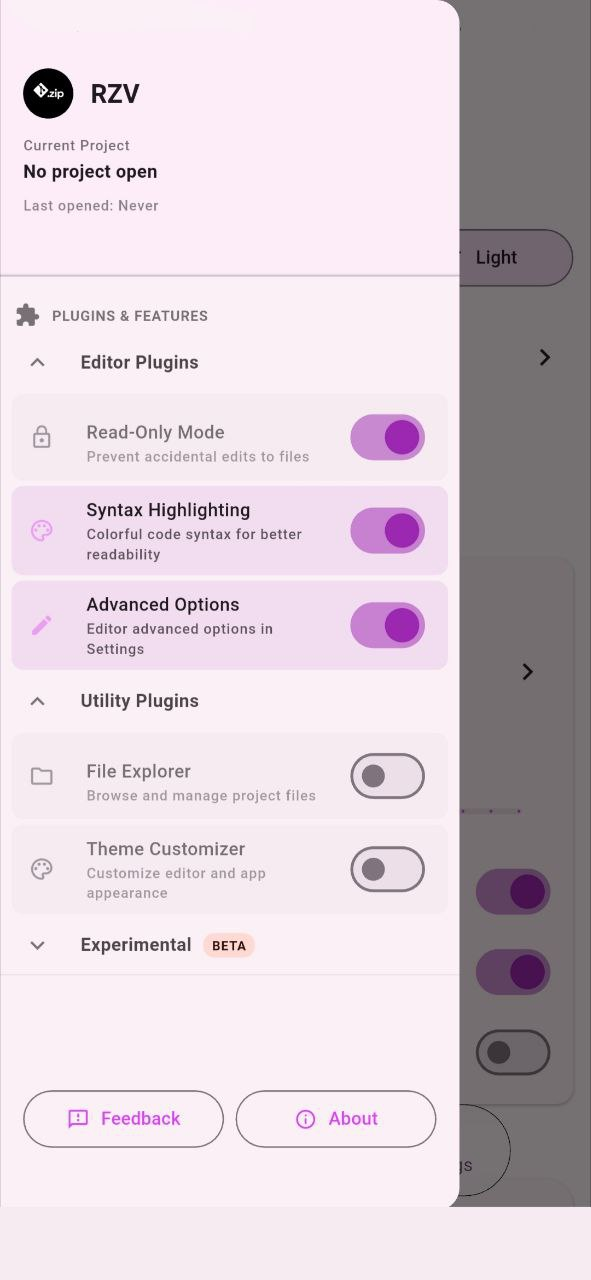
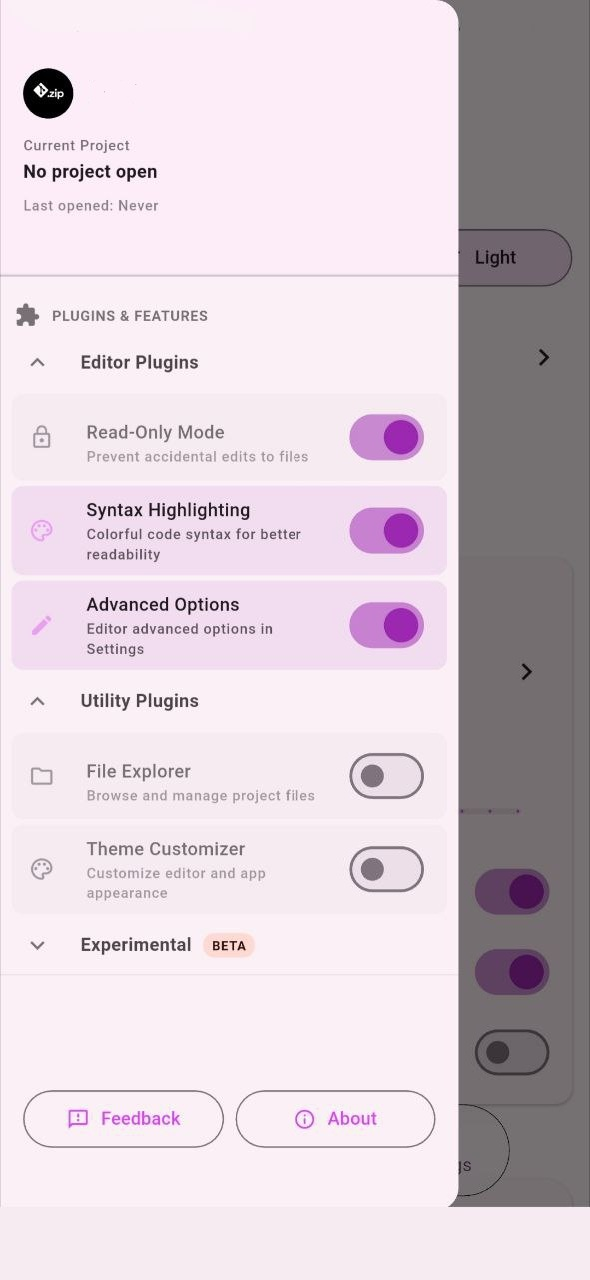
rename to RZR

Changed region(s): [[0.2441, 0.4688, 0.4271, 0.5], [0.2746, 0.375, 0.4271, 0.4062], [0.1525, 0.0625, 0.2441, 0.0938]]

diff --git a/quick_start.md b/quick_start.md
@@ -1,6 +1,6 @@
-## 1.1 What is RZV
+## 1.1 What is RZR
 
-RZV (repo zip viewer) is an open source mobile app to browse and read GitHub, GitLab and Bitbucket repositories. Instead of cloning a repository with Git, you open its `.zip` archive in a read-only code editor and markdown viewer. The common use cases include:
+RZR (repo zip reader) is an open source mobile app to browse and read GitHub, GitLab and Bitbucket repositories. Instead of cloning a repository with Git, you open its `.zip` archive in a read-only code editor and markdown viewer. The common use cases include:
 
 - Studying open-source projects on the go
 - Reviewing code during travel or commutes
@@ -15,7 +15,7 @@ No cloning or Git setup is needed: after a repository is imported, its files can
 <img src="./images/projects_dir.jpg" width="250" />
 </p>
 
-To start using RZV, you just need to import a repository. RZV provides two ways to do this:
+To start using RZR, you just need to import a repository. RZR provides two ways to do this:
 
 - use the built-in **Zip Manager** to download a repository directly from GitHub, GitLab or Bitbucket
 - import a `.zip` archive that you already have on your device (for example a GitHub "Download ZIP" file)
@@ -24,7 +24,7 @@ Imported repositories appear in the home screen, where you can open, rename or d
 
 ## 1.3 Opening a Repository
 
-Tap on an imported project to open it. RZV shows the full folder/file tree of the repository, so you can navigate through directories just like a file explorer.
+Tap on an imported project to open it. RZR shows the full folder/file tree of the repository, so you can navigate through directories just like a file explorer.
 
 <p align="center">
 <!-- <img src="./images/plugin_manager.jpg" width="250" /> -->
@@ -35,6 +35,6 @@ Tap any file to open it in the code editor, or tap a markdown file to preview it
 
 ## 1.4 Browsing Files
 
-RZV reads files directly from the extracted archive. The file tree shows all the directories and files of the repository, and large projects are supported thanks to a progress indicator shown during extraction.
+RZR reads files directly from the extracted archive. The file tree shows all the directories and files of the repository, and large projects are supported thanks to a progress indicator shown during extraction.
 
 Search is available both across file names and inside file contents, so you can quickly find what you are looking for.

diff --git a/donate.md b/donate.md
@@ -1,8 +1,8 @@
-<!-- TODO: replace "RZV" project name in the text below (and the sponsor link) -->
-RZV is a FOSS project brought to you free of charge. You can make a donation to foster future development via one of the methods below.
+<!-- TODO: replace "RZR" project name in the text below (and the sponsor link) -->
+RZR is a FOSS project brought to you free of charge. You can make a donation to foster future development via one of the methods below.
 
-<!-- TODO: replace the sponsor link with RZV's own sponsors section, e.g. https://github.com/bilalsul/rzv#sponsors -->
-If you are a business and find this app useful for your business, please consider becoming [an official sponsor of the project](https://github.com/bilalsul/rzv#sponsors).
+<!-- TODO: replace the sponsor link with RZR's own sponsors section, e.g. https://github.com/bilalsul/rzr#sponsors -->
+If you are a business and find this app useful for your business, please consider becoming [an official sponsor of the project](https://github.com/bilalsul/rzr#sponsors).
 
 ### Liberapay
 
@@ -11,16 +11,16 @@ If you are a business and find this app useful for your business, please conside
 
 <!-- ### Bitcoin -->
 
-<!-- TODO: replace the address and the QR image link with RZV's Bitcoin address / QR -->
-<!-- Address: [1BtxxxxxYourBitcoinAddress](bitcoin:1BtxxxxxYourBitcoinAddress?message=RZV) -->
+<!-- TODO: replace the address and the QR image link with RZR's Bitcoin address / QR -->
+<!-- Address: [1BtxxxxxYourBitcoinAddress](bitcoin:1BtxxxxxYourBitcoinAddress?message=RZR) -->
 
 <!-- ![rzv_bitcoin](https://user-images.githubusercontent.com/5488003/112125885-2f660c80-8bc4-11eb-8c72-7a413e3efabd.png) -->
 
 <!-- ### Monero -->
 
-<!-- TODO: replace the address and the QR image link with RZV's Monero address / QR -->
+<!-- TODO: replace the address and the QR image link with RZR's Monero address / QR -->
 <!-- Address: [48aaPXkYHBPF5fvbCNq3rHX1XGg2uGB6
 s8XYATtoBp1VgRKH3w9a49BasFzQTHEh7m41Lg9xn
-U21oVfnD8GJW82xJrNJY5g](monero:48aaPXkYHBPF5fvbCNq3rHX1XGg2uGB6s8XYATtoBp1VgRKH3w9a49BasFzQTHEh7m41Lg9xnU21oVfnD8GJW82xJrNJY5g?tx_description=RZV) -->
+U21oVfnD8GJW82xJrNJY5g](monero:48aaPXkYHBPF5fvbCNq3rHX1XGg2uGB6s8XYATtoBp1VgRKH3w9a49BasFzQTHEh7m41Lg9xnU21oVfnD8GJW82xJrNJY5g?tx_description=RZR) -->
 
 <!-- ![rzv_monero](https://user-images.githubusercontent.com/5488003/120921978-e142ae80-c6c6-11eb-9765-fd6ff5e71fdb.png) -->

diff --git a/faq.md b/faq.md
@@ -5,12 +5,12 @@ Use the built-in Zip Manager to download a repository from GitHub, GitLab or Bit
 
 **Do I need Git or a GitHub account?**
 
-No. RZV does not clone repositories and does not require any Git setup. You only need a `.zip` archive of the repository, which you can download directly in the app or import from your device.
+No. RZR does not clone repositories and does not require any Git setup. You only need a `.zip` archive of the repository, which you can download directly in the app or import from your device.
 <br/><br/>
 
 **Can I edit the files?**
 
-No. RZV is a read-only viewer: you can browse, search and read code, but you cannot modify the repository files.
+No. RZR is a read-only viewer: you can browse, search and read code, but you cannot modify the repository files.
 <br/><br/>
 
 **Can I read a repository offline?**
@@ -25,12 +25,12 @@ Yes. The Zip Manager lets you select the branch (or tag) to download before star
 
 **Why do some features appear disabled?**
 
-All plugins are disabled by default. RZV uses a plugins system: some features, like the file explorer, markdown preview or the theme customizer, can be toggled on and off from the Settings screen. Enable the corresponding plugin to use the feature.
+All plugins are disabled by default. RZR uses a plugins system: some features, like the file explorer, markdown preview or the theme customizer, can be toggled on and off from the Settings screen. Enable the corresponding plugin to use the feature.
 <br/><br/>
 
 **Which languages are supported?**
 
-RZV is available in 14 languages, including English, Italian, French, German, Arabic, Spanish, Portuguese, Turkish, Chinese (Simplified & Traditional), Japanese, Korean and Russian. Please update/support your language by creating [a pull request](https://github.com/bilalsul/rzv/pulls).
+RZR is available in 14 languages, including English, Italian, French, German, Arabic, Spanish, Portuguese, Turkish, Chinese (Simplified & Traditional), Japanese, Korean and Russian. Please update/support your language by creating [a pull request](https://github.com/bilalsul/rzr/pulls).
 <br/><br/>
 
 **Are there any AI features?**

diff --git a/customization.md b/customization.md
@@ -1,4 +1,4 @@
-RZV is highly customizable to fit your reading preferences.
+RZR is highly customizable to fit your reading preferences.
 
 ## 5.1 Themes and Accent Colors
 
@@ -10,7 +10,7 @@ You can choose between light and dark themes, as well as customize the secondary
 
 ## 5.2 Plugins System
 
-RZV features a plugins system which lets you toggle individual features on and off:
+RZR features a plugins system which lets you toggle individual features on and off:
 
 <p align="center">
 <img src="./images/plugin_manager.jpg" width="250" />
@@ -37,4 +37,4 @@ Enabled plugins are reflected in the bottom navigation bar, so you only see the 
 
 ## 5.3 Interface Languages
 
-RZV supports 14 interface languages: English, Italian, French, German, Arabic, Spanish, Portuguese, Turkish, Chinese (Simplified & Traditional), Japanese, Korean and Russian. The app detects your device language and falls back to English when the language is not supported. Please update/support your language by creating [a pull request](https://github.com/bilalsul/rzv/pulls).
+RZR supports 14 interface languages: English, Italian, French, German, Arabic, Spanish, Portuguese, Turkish, Chinese (Simplified & Traditional), Japanese, Korean and Russian. The app detects your device language and falls back to English when the language is not supported. Please update/support your language by creating [a pull request](https://github.com/bilalsul/rzr/pulls).

diff --git a/zip_manager.md b/zip_manager.md
@@ -2,17 +2,17 @@ The Zip Manager is a built-in downloader which lets you fetch a repository archi
 
 ## 2.1 Downloading a Repository
 
-From the Zip Manager Tab, select the provider (GitHub, GitLab or Bitbucket), enter the repository URL or `owner/name`, and start the download. RZV downloads the repository as a `.zip` archive and extracts it automatically.
+From the Zip Manager Tab, select the provider (GitHub, GitLab or Bitbucket), enter the repository URL or `owner/name`, and start the download. RZR downloads the repository as a `.zip` archive and extracts it automatically.
 
 <p align="center">
 <img src="./images/zip_manager.png" width="250" />
 </p>
 
-Downloads can be cancelled at any time. After a cancellation, RZV allows you to start another download right away.
+Downloads can be cancelled at any time. After a cancellation, RZR allows you to start another download right away.
 
 ## 2.2 Branch Selection
 
-Before downloading, you can select the branch to download. RZV uses the repository default branch when none is selected, but you can pick a specific branch from the available ones. We will soon support tags.
+Before downloading, you can select the branch to download. RZR uses the repository default branch when none is selected, but you can pick a specific branch from the available ones. We will soon support tags.
 
 ## 2.3 Extract Projects
 

diff --git a/privacy.md b/privacy.md
@@ -1,9 +1,9 @@
 ## Privacy Policy
 
-RZV does not collect any information. There is no tracking and no analytics.
+RZR does not collect any information. There is no tracking and no analytics.
 
-RZV uses the INTERNET permission to download repository archives (`.zip` files) requested by the user and to check for new versions on GitHub. No personal data is uploaded to any server. RZV also uses for temporary file access only when you are trying to add .zip file locally.
+RZR uses the INTERNET permission to download repository archives (`.zip` files) requested by the user and to check for new versions on GitHub. No personal data is uploaded to any server. RZR also uses for temporary file access only when you are trying to add .zip file locally.
 
 All the imported repositories are processed in the App Sandbox on your device and can be read offline. The app does not send your files, your reading history, or any other data to remote servers.
 
-For any question, contact us at the [RZV support page](https://bilsul.com/support).
+For any question, contact us at the [RZR support page](https://bilalsul.github.io/rzr).

diff --git a/code_editor.md b/code_editor.md
@@ -1,8 +1,8 @@
-RZV embeds a read-only code editor based on the [Monaco Editor](https://github.com/omar-hanafy/flutter_monaco), the same editor used by Visual Studio Code.
+RZR embeds a read-only code editor based on the [Monaco Editor](https://github.com/omar-hanafy/flutter_monaco), the same editor used by Visual Studio Code.
 
 ## 3.1 Syntax Highlighting
 
-When you open a source file, RZV automatically detects the programming language and applies syntax highlighting. Many common languages are supported out of the box.
+When you open a source file, RZR automatically detects the programming language and applies syntax highlighting. Many common languages are supported out of the box.
 
 <p align="center">
 <img src="./images/code_editor.jpg" width="250" />

diff --git a/index.md b/index.md
@@ -1,9 +1,9 @@
-Welcome to the RZV User Guide.
+Welcome to the RZR User Guide.
 
 # Contents
 
 - [1. Quick Start](quick_start)
-    - [1.1 What is RZV](quick_start#11-what-is-rzv)
+    - [1.1 What is RZR](quick_start#11-what-is-rzr)
     - [1.2 Basic Usage](quick_start#12-basic-usage)
     - [1.3 Opening a Repository](quick_start#13-opening-a-repository)
     - [1.4 Browsing Files](quick_start#14-browsing-files)

diff --git a/markdown_previewer.md b/markdown_previewer.md
@@ -1,4 +1,4 @@
-RZV renders Markdown files so you can read documentation and READMEs the way they are meant to be read.
+RZR renders Markdown files so you can read documentation and READMEs the way they are meant to be read.
 
 ## 4.1 Previewing README files
 
